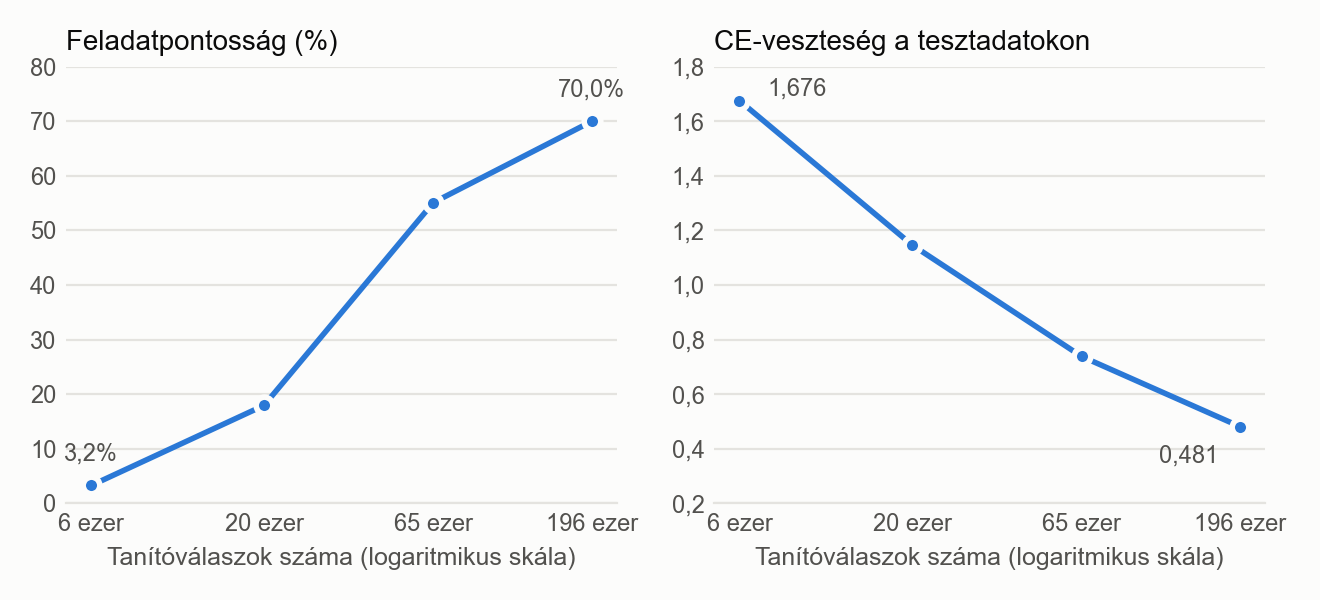
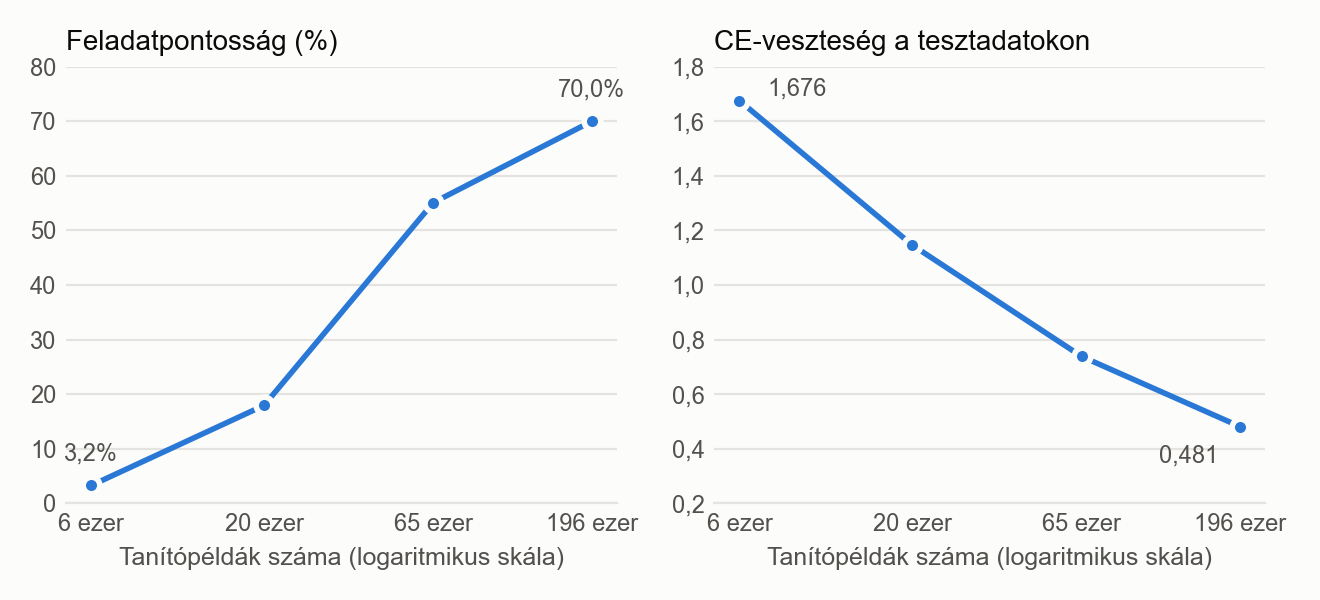
Figures 2.2 and 9.2: x axis says tanítópéldák (the thesis's unit for one model turn); figure 2.2's 4-digit ticks without a space

Changed region(s): [[0.5591, 0.9, 0.9318, 0.96], [0.0932, 0.9, 0.4348, 0.96]]

diff --git a/thesis_work/grafikonok/plot_11_math_tutor_data_curve.py b/thesis_work/grafikonok/plot_11_math_tutor_data_curve.py
@@ -43,12 +43,12 @@ axis.scatter(replies, loss, s=64, color=SERIES, edgecolor=SURFACE, linewidth=2, 
 
 axis.set_xscale("log", base=2)
 axis.set_xticks(replies)
-axis.set_xticklabels([f"{count:,}".replace(",", " ") for count in replies])
+axis.set_xticklabels([f"{count:,}".replace(",", " ") if count >= 10000 else str(count) for count in replies])   # thesis style: a space only from 5 digits
 axis.minorticks_off()
 axis.set_xlim(400, 8000)
 axis.set_ylim(1.6, 3.2)
 axis.yaxis.set_major_formatter(matplotlib.ticker.FuncFormatter(lambda value, _position: f"{value:.1f}".replace(".", ",")))
-axis.set_xlabel("Tanítóválaszok száma (logaritmikus skála)", color=TEXT_SECONDARY)
+axis.set_xlabel("Tanítópéldák száma (logaritmikus skála)", color=TEXT_SECONDARY)
 axis.set_ylabel("CE-veszteség a tesztadatokon", color=TEXT_SECONDARY)
 
 for spine in ("top", "right", "left"):

diff --git a/thesis_work/grafikonok/plot_15_math_data_curve.py b/thesis_work/grafikonok/plot_15_math_data_curve.py
@@ -51,7 +51,7 @@ for axis, column, title in ((accuracy_axis, 0, "Feladatpontosság (%)"), (loss_a
     axis.xaxis.set_minor_locator(matplotlib.ticker.NullLocator())
     axis.set_facecolor(SURFACE)
     axis.set_title(title, color=TEXT_PRIMARY, fontsize=10, loc="left")
-    axis.set_xlabel("Tanítóválaszok száma (logaritmikus skála)", color=TEXT_SECONDARY, fontsize=9)
+    axis.set_xlabel("Tanítópéldák száma (logaritmikus skála)", color=TEXT_SECONDARY, fontsize=9)
     for spine in ("top", "right", "left"):
         axis.spines[spine].set_visible(False)
     axis.spines["bottom"].set_color(GRID)
